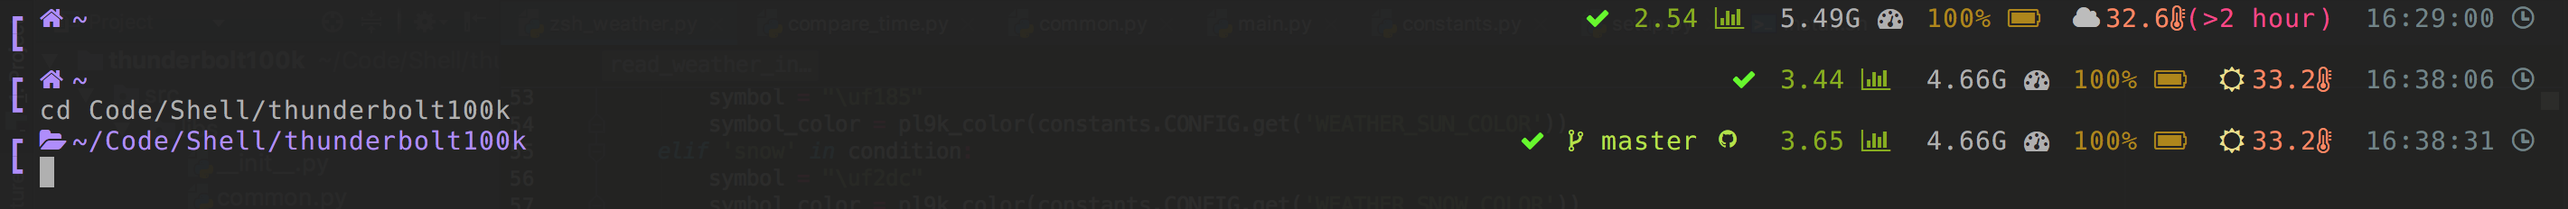
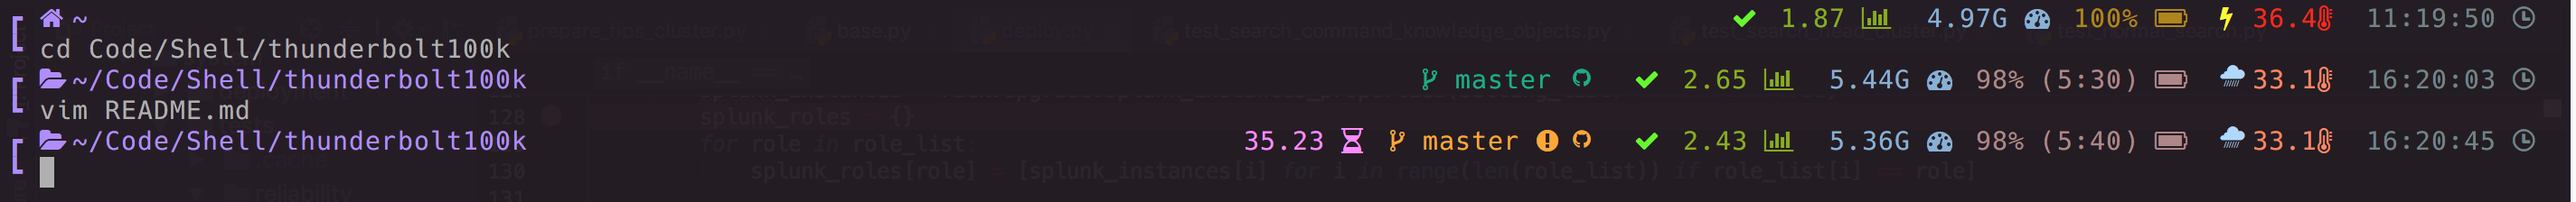
Add more condition mappings

diff --git a/src/zsh_weather.py b/src/zsh_weather.py
@@ -35,10 +35,10 @@ def read_weather_info():
     update_time = content['current']['last_updated']
     delta_minute, delta_hour, delta_day = compare_time(update_time, '%Y-%m-%d %H:%M')
 
-    if 'thunder' in condition:
+    if 'thunder' in condition or 'Thunder' in condition:
         symbol = "\uf0e7"
         symbol_color = pl9k_color(constants.CONFIG.get('WEATHER_THUNDER_COLOR'))
-    elif 'rain' in condition:
+    elif 'rain' in condition or 'drizzle' in condition:
         symbol_color = pl9k_color(constants.CONFIG.get('WEATHER_RAIN_COLOR'))
         symbol = "\ue239"
     elif 'Cloudy' in condition:
@@ -58,7 +58,7 @@ def read_weather_info():
         symbol_color = pl9k_color(constants.CONFIG.get('WEATHER_SNOW_COLOR'))
     else:
         symbol_color = pl9k_color(constants.CONFIG.get('WEATHER_DEFAULT_COLOR'))
-        symbol = "\uf2c7"
+        symbol = "\uf422"
 
     if temp >= 35:
         temp_color = pl9k_color(constants.CONFIG.get('WEATHER_HIGH_TEMP_COLOR'))
